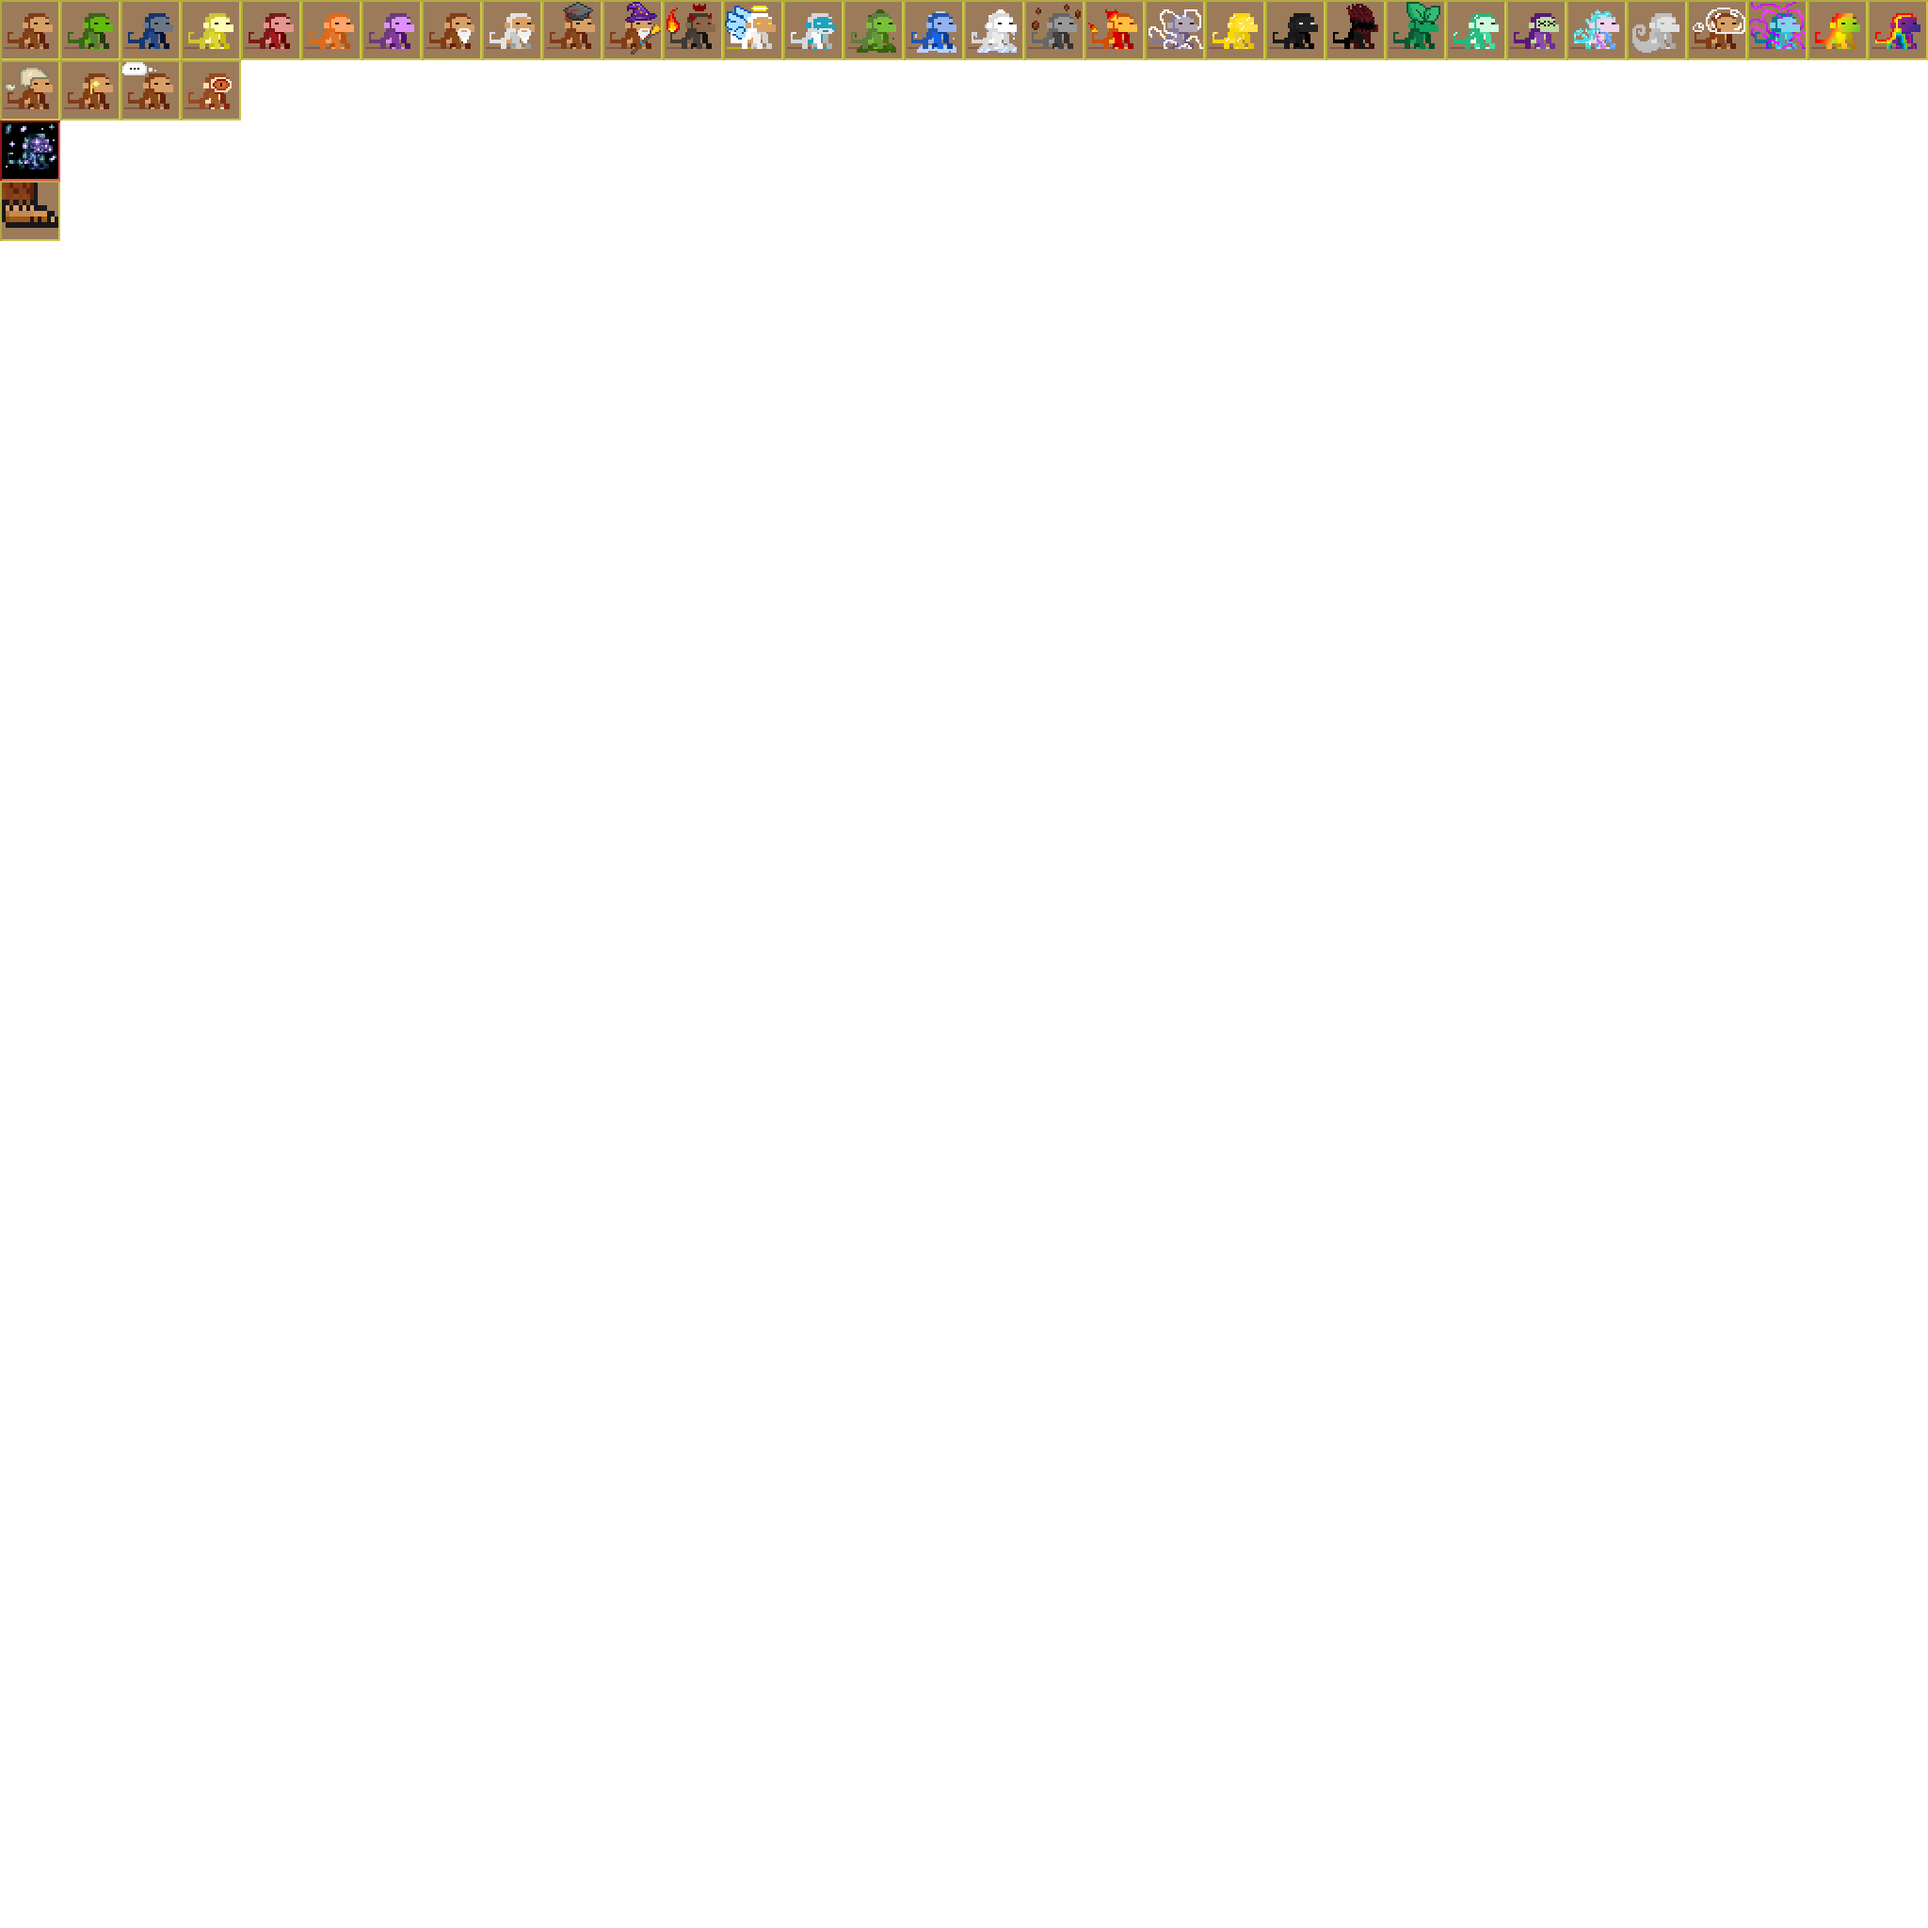
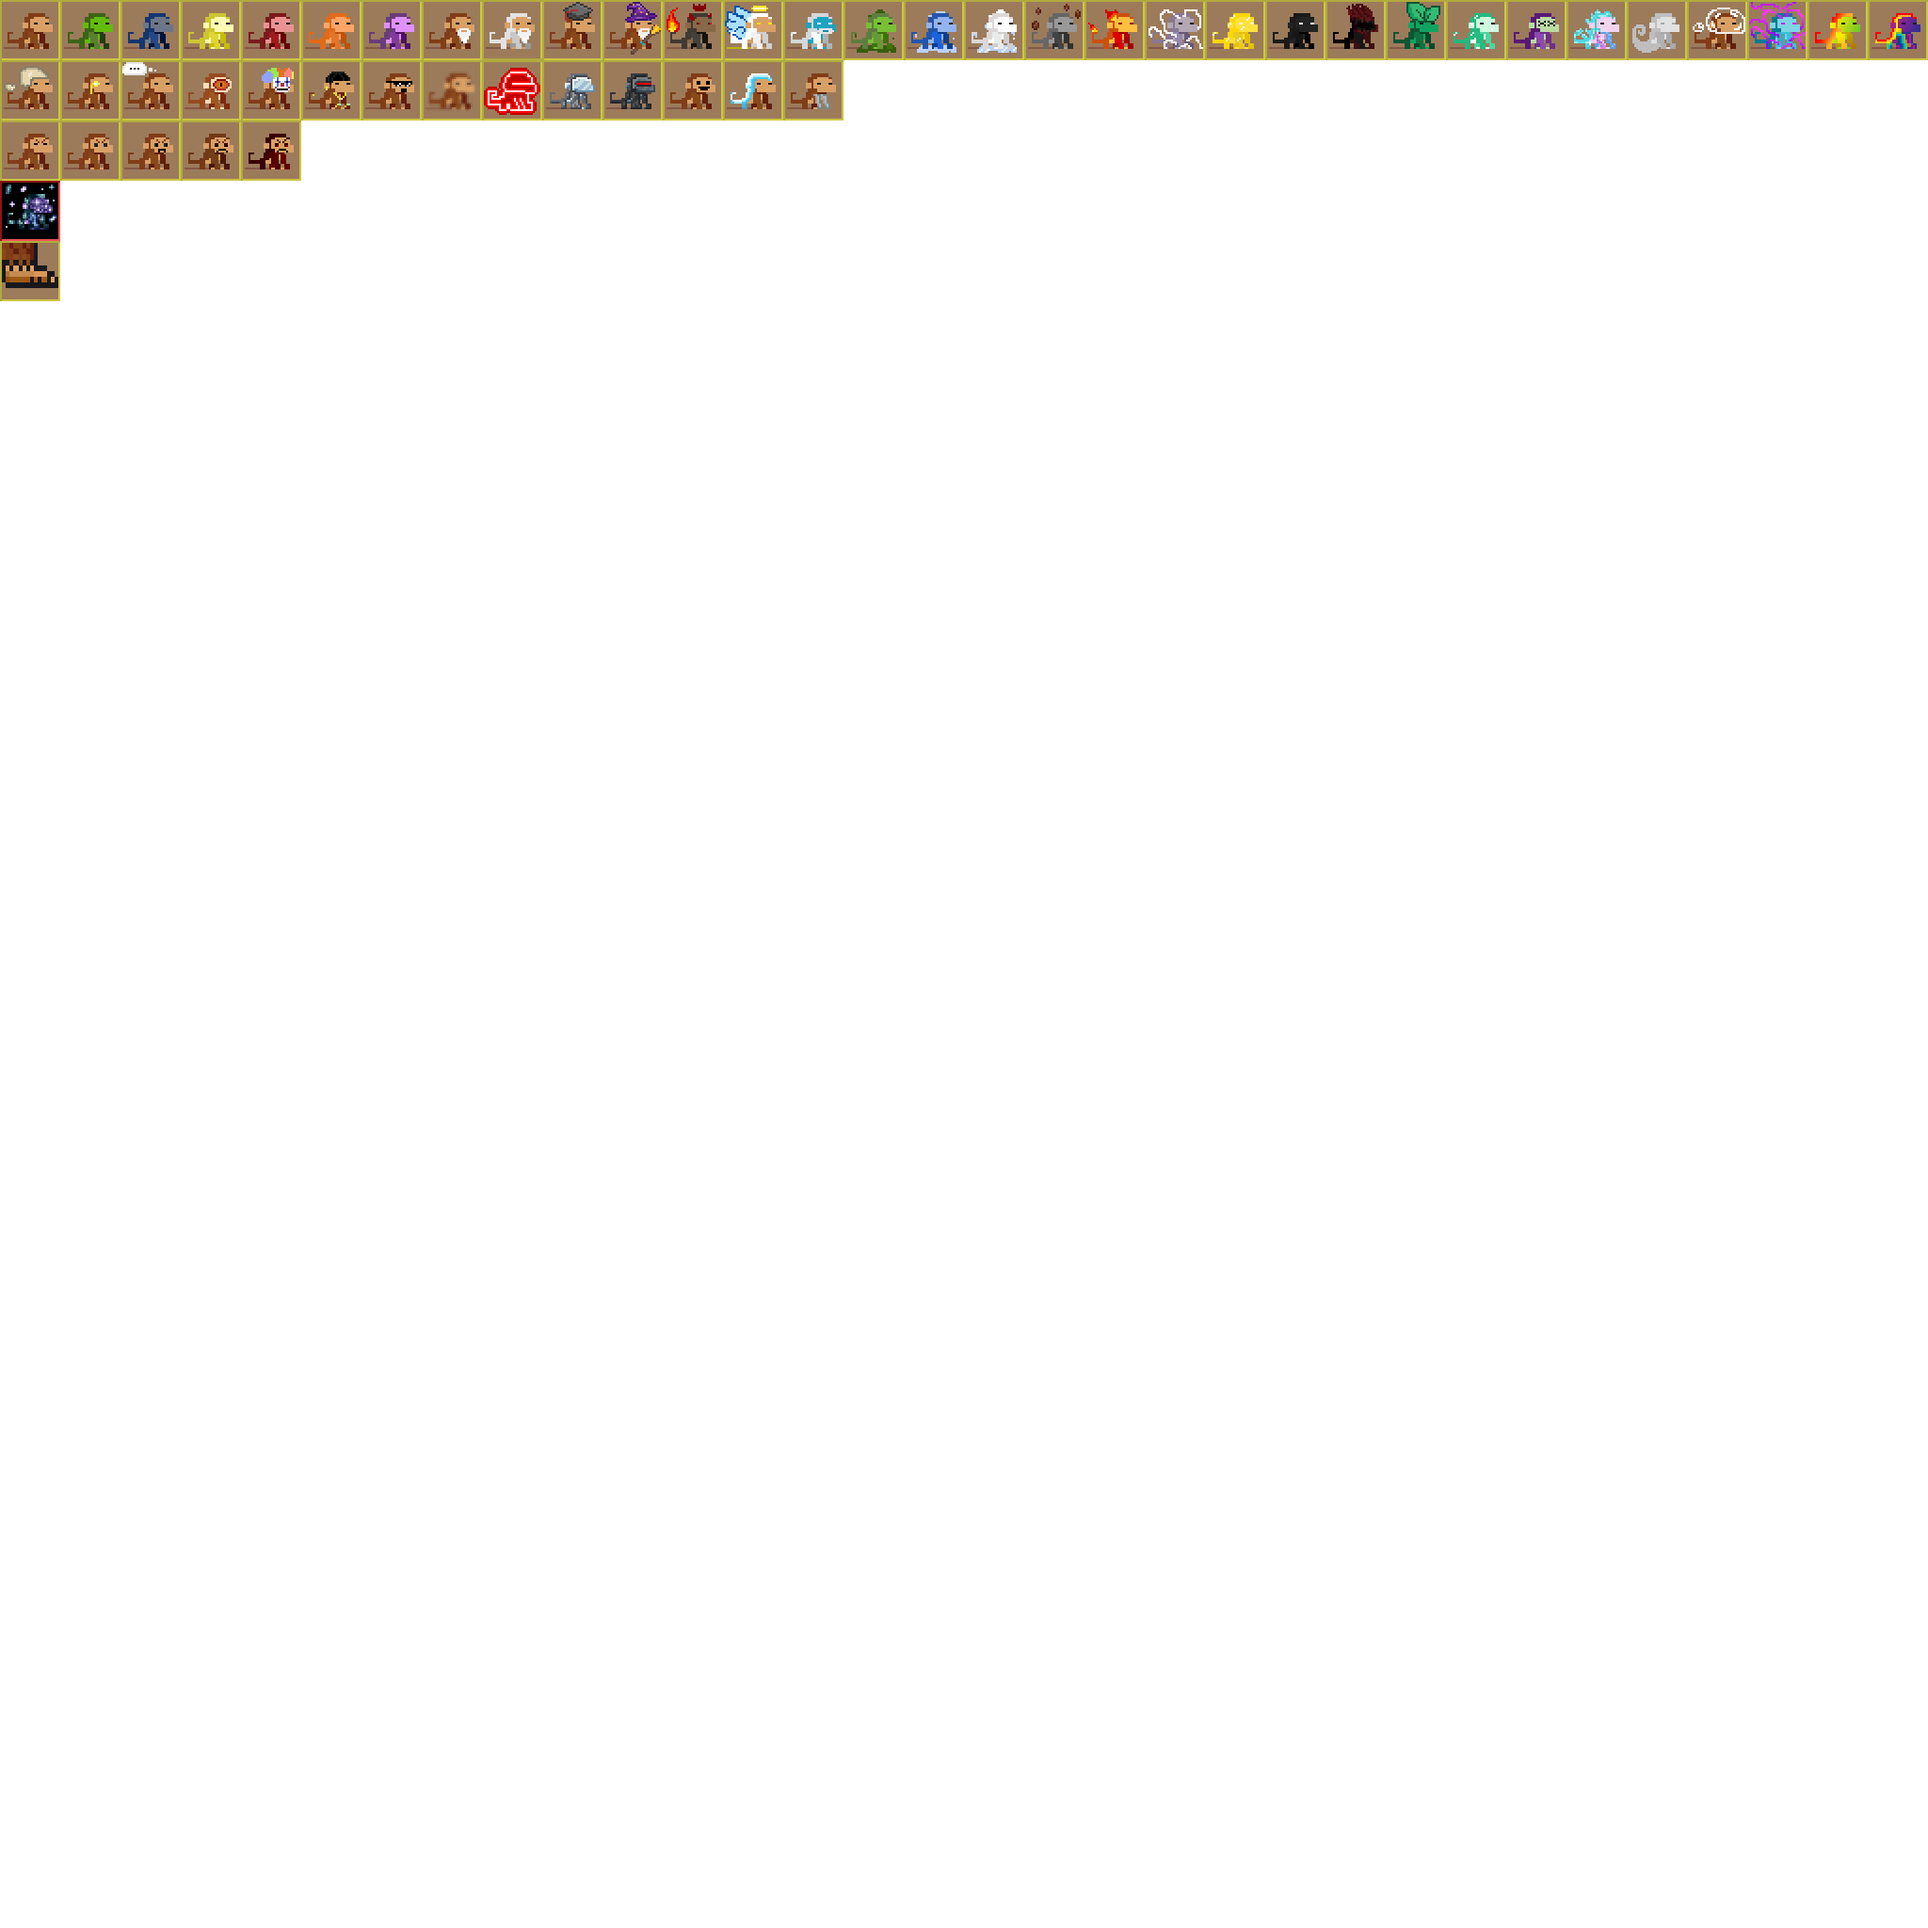
update

Changed region(s): [[0.0, 0.0312, 0.4375, 0.1562]]

diff --git a/tests/compendium/compendium.css b/tests/compendium/compendium.css
@@ -1,3 +1,6 @@
+@import url('https://fonts.cdnfonts.com/css/minecraft-3');
+
+
 .compendiumBackground{
     width: 100vw;
     height: 100vh;
@@ -38,3 +41,50 @@ body{
     transform: scale(1) translate(0px, 0px);
     cursor: grab;
   }
+
+
+  /*START BOOk*/
+
+.book {
+    width: 100%;
+    height: 100%;
+    display: flex;
+}
+
+.book .page {
+    width: calc(1920px - 480px);
+    height: 100%;
+    background: rgba(54, 224, 38, 0.25);
+}
+
+.book .bookTabs {
+    width: 480px;
+    height: 100%;
+    background-color: rgba(219 7 7 / 25%);
+}
+
+.bookTabs .bookTab {
+    width: 100%;
+    height: 66px;
+    background: rgba(7, 92, 219, 0.25);
+    border: 1px solid black;
+    border-collapse: collapse;
+    cursor: pointer;
+    font-family: 'Minecraft', sans-serif;
+    font-size: 35px;
+    line-height: 70px;
+    display: flex;
+}
+
+.bookTabs .bookTab:hover {
+    filter: brightness(0.5);
+    transform: translate(-20px);
+}
+
+.bookTab .monkeyIcon{
+    width: 64px;
+    height: 64px;
+    margin-right: 10px;
+    background-image: url(../../images/monkeys.png);
+    
+}

diff --git a/tests/compendium/compendium.html b/tests/compendium/compendium.html
@@ -11,11 +11,24 @@
 </head>
 <body>
     <div class="compendiumBackground">
-        <div id="zoom" class="compendium">
+        <div id="zoom" class="compendium" style="display: none;">
             <div class="compendiumMonkey"></div>
             <div class="compendiumMonkey"></div>
             <div class="compendiumMonkey"></div>
-        </div>        
+        </div>
+        <div class="book">
+            <div class="page"></div>
+            <div class="bookTabs">
+                <div class="bookTab"><div class="monkeyIcon"></div>Basic</div>
+                <div class="bookTab"></div>
+                <div class="bookTab"></div>
+                <div class="bookTab"></div>
+                <div class="bookTab"></div>
+                <div class="bookTab"></div>
+                <div class="bookTab"></div>
+
+            </div>
+        </div>
     </div>
 </body>
 <script src="../../js/bootstrap.bundle.min.js"></script>
